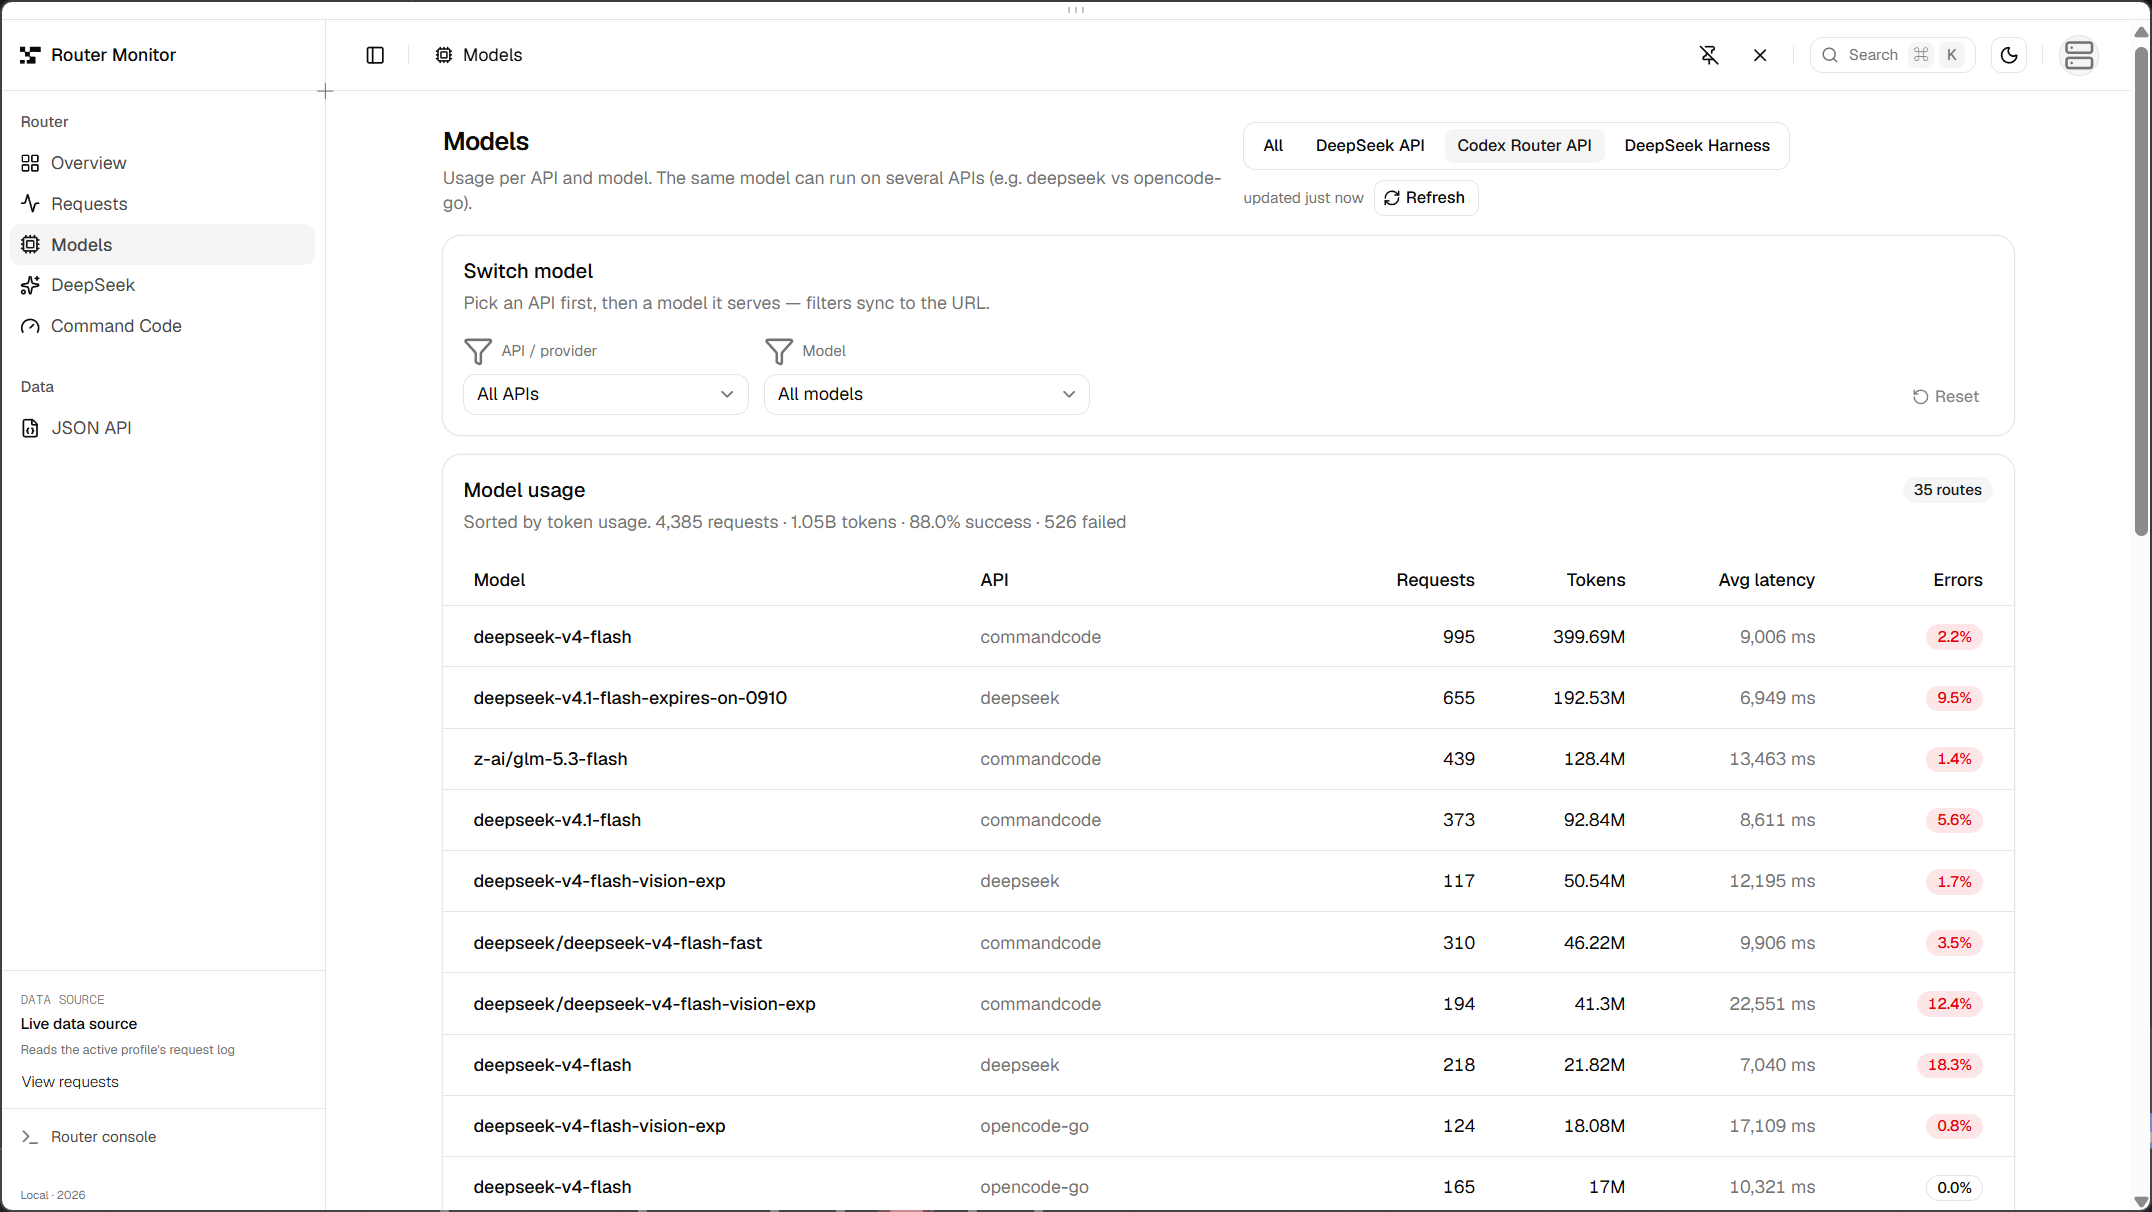
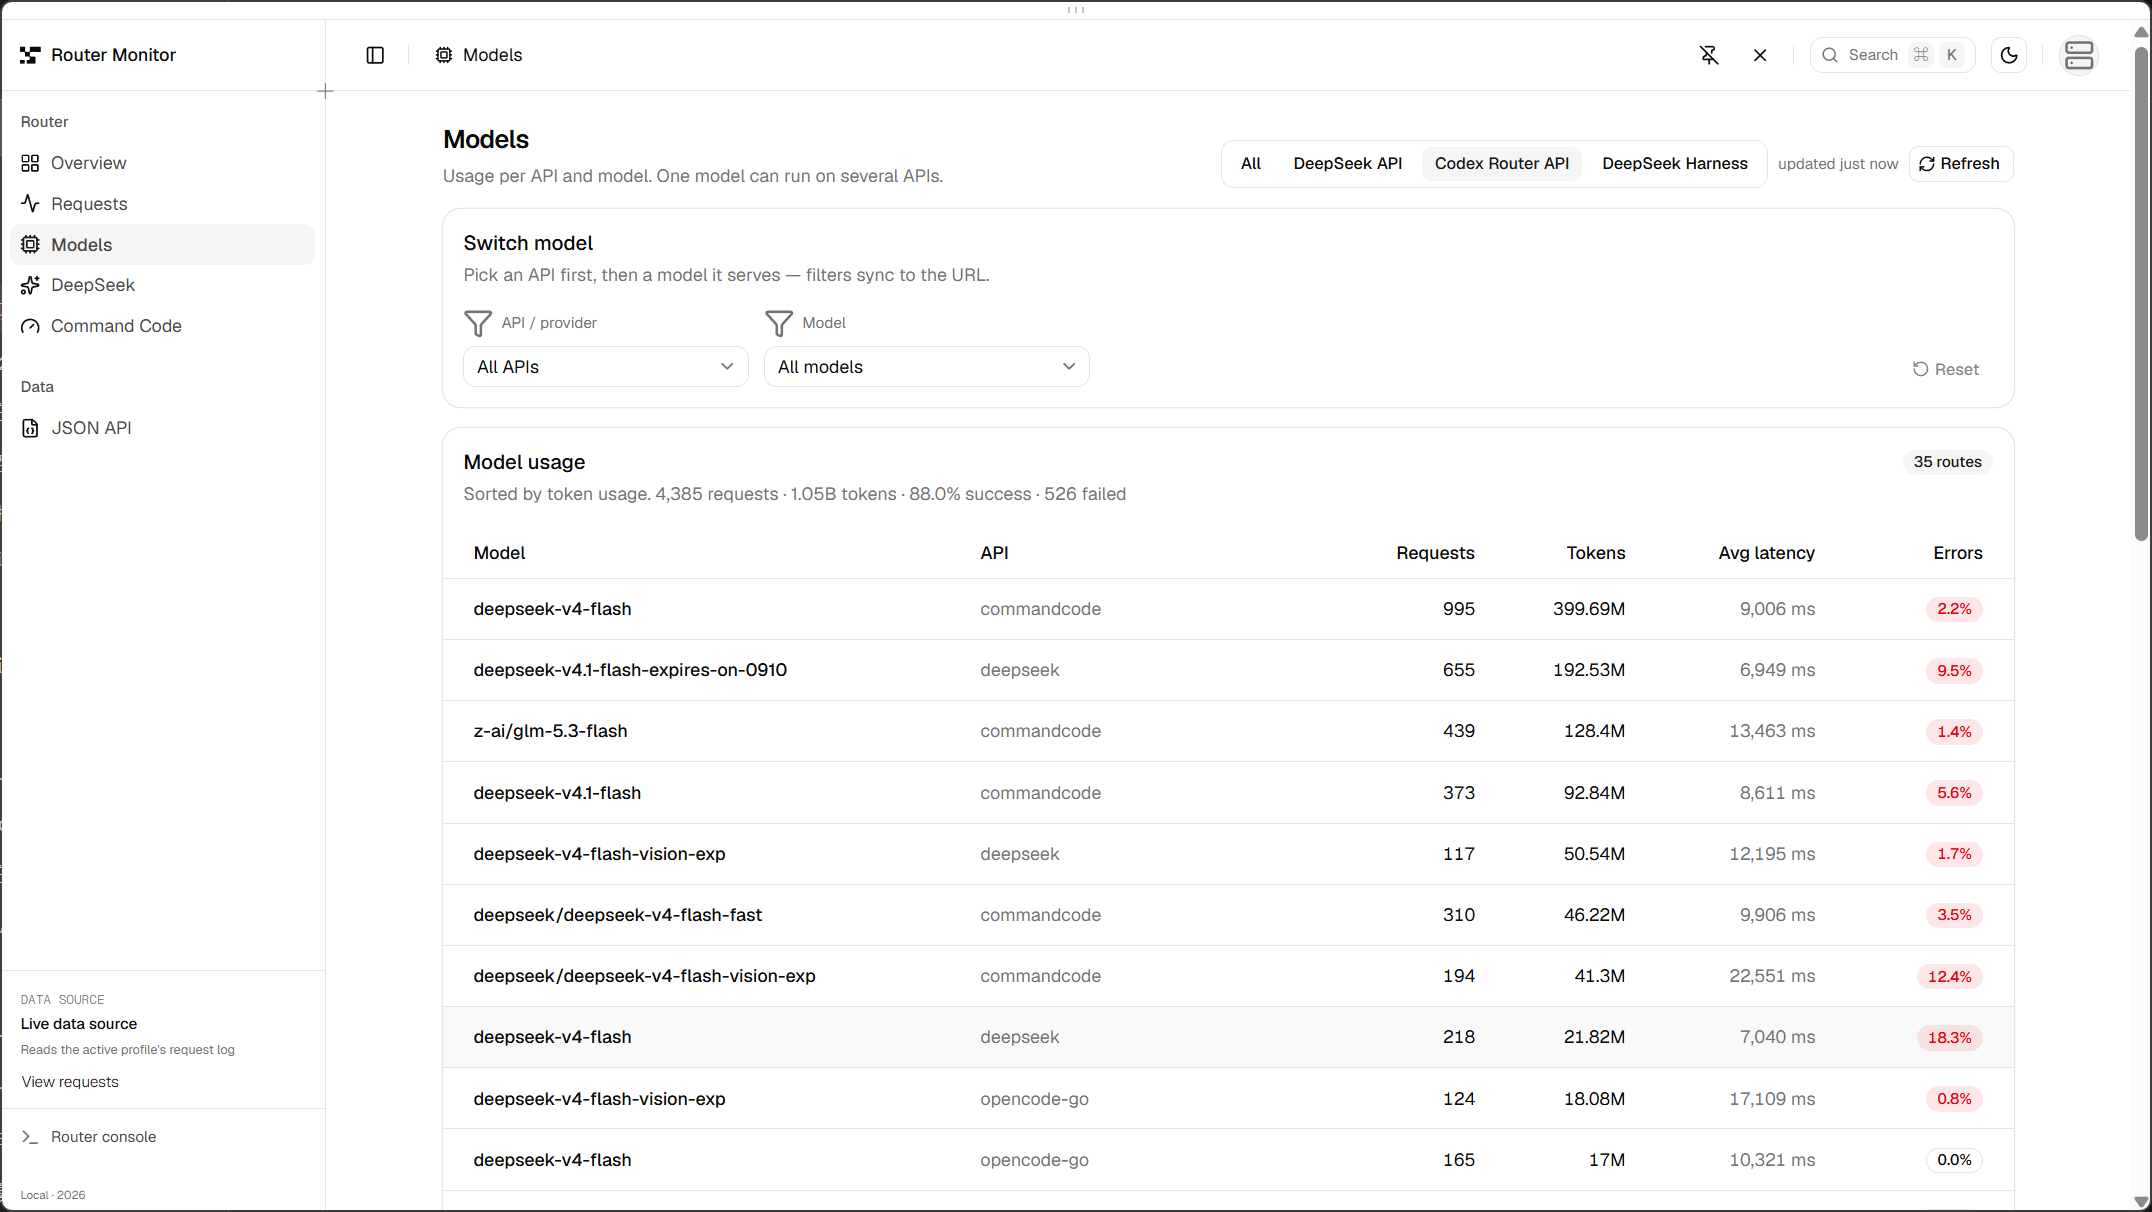
dashboard: keep the header controls on one line
The description I added for the All tab was long enough to push the Refresh button
onto a second row - measured: the controls need 810 px and the prose was taking 520,
so the row could not fit in the 1232 px available.

Two changes, both measured rather than eyeballed:

- every page description is shorter. Overview's All text went from 105 characters
  (520 px) to 44 (300 px), and the other three descriptions are trimmed by the same
  amount.
- the prose column is now min-w-0, so it yields width before the controls yield a row.

Result at 1688 px: the controls occupy one row on all three pages with 0 px of
overflow. Narrower windows degrade the way they should - the controls wrap as a unit
rather than overflowing the edge.

npm run test:e2e now asserts both, counting rows with a tolerance because controls of
different heights are centred on one row and a few pixels of top offset is not a wrap.
Confirmed the assertion is not vacuous: restoring the long description reproduces
2 rows and the check fails.

Gate re-run: exit 0, 47/47.

diff --git a/src/app/requests/page.tsx b/src/app/requests/page.tsx
@@ -60,12 +60,12 @@ export default async function RequestsPage({ searchParams }: RequestsPageProps) 
 	const sourceLabel = snapshot.sourceLabel;
 	const sourceDescription =
 		source === "all"
-			? "Every request any reader can see, counted once. Not the sum of the three tabs — they overlap."
+			? "Every request from every reader, counted once."
 			: source === "router"
-				? "Live request log from Codex Router API (127.0.0.1:4202)."
+				? "Live log from Codex Router API (127.0.0.1:4202)."
 				: source === "harness"
-					? "Live request log from DeepSeek Harness session logs (~/.dsh/sessions)."
-					: "Live request log from the native DeepSeek API (api.deepseek.com).";
+					? "Live log from the DeepSeek Harness session logs."
+					: "Live log from the native DeepSeek API.";
 	// The harness meters the native DeepSeek upstream in CNY; Command Code turns
 	// there are billed as credits, so only the priced part is shown.
 	// "all" reports no cost on purpose: DeepSeek's CNY list prices only DeepSeek
@@ -96,7 +96,8 @@ export default async function RequestsPage({ searchParams }: RequestsPageProps) 
 		<AppShell>
 			<div className="flex flex-col gap-4">
 				<header className="flex flex-col gap-3 sm:flex-row sm:items-end sm:justify-between">
-					<div className="flex flex-col gap-1">
+					{/* min-w-0 lets the prose give up width before the controls give up a row. */}
+					<div className="flex min-w-0 flex-col gap-1">
 						<h1 className="font-heading text-xl font-semibold tracking-tight">
 							Requests
 						</h1>

diff --git a/src/app/page.tsx b/src/app/page.tsx
@@ -48,18 +48,20 @@ export default async function Home({ searchParams }: HomeProps) {
 		<AppShell>
 			<div className="flex flex-col gap-4">
 				<header className="flex flex-col gap-3 sm:flex-row sm:items-end sm:justify-between">
-					<div className="flex flex-col gap-1">
+					{/* min-w-0 lets the prose give up width before the controls give up a row:
+					    the switchers have to stay on one line, the description can wrap. */}
+					<div className="flex min-w-0 flex-col gap-1">
 						<h1 className="font-heading text-xl font-semibold tracking-tight">
 							Overview
 						</h1>
 						<p className="text-sm text-muted-foreground">
 							{source === "all"
-								? "Every request any reader can see, counted once. Not the sum of the three tabs — they overlap."
+								? "Every request from every reader, counted once."
 								: source === "router"
-									? "Usage, latency, and token trends from Codex Router API."
+									? "Usage, latency and tokens from Codex Router API."
 									: source === "harness"
-										? "Usage and token trends for turns DeepSeek Harness sent upstream."
-										: "Usage, tokens, and cost trends from the native DeepSeek API."}
+										? "Usage and tokens for turns DeepSeek Harness sent upstream."
+										: "Usage, tokens and cost from the native DeepSeek API."}
 						</p>
 					</div>
 					<div className="flex flex-wrap items-center gap-2">

diff --git a/src/app/models/page.tsx b/src/app/models/page.tsx
@@ -67,13 +67,13 @@ export default async function ModelsPage({ searchParams }: ModelsPageProps) {
 		<AppShell>
 			<div className="flex flex-col gap-4">
 				<header className="flex flex-col gap-3 sm:flex-row sm:items-end sm:justify-between">
-					<div className="flex flex-col gap-1">
+					{/* min-w-0 lets the prose give up width before the controls give up a row. */}
+					<div className="flex min-w-0 flex-col gap-1">
 						<h1 className="font-heading text-xl font-semibold tracking-tight">
 							Models
 						</h1>
 						<p className="text-sm text-muted-foreground">
-							Usage per API and model. The same model can run on several APIs
-							(e.g. deepseek vs opencode-go).
+							Usage per API and model. One model can run on several APIs.
 						</p>
 					</div>
 					<div className="flex flex-wrap items-center gap-2">

diff --git a/docs/tray-evidence.md b/docs/tray-evidence.md
@@ -6,7 +6,7 @@ Generated by scripts/verify-tray.ps1. Regenerate with:
 
 | Run | Commit | Reopen | Route change | Hidden CPU / 0.5s | Hidden samples | Viewport | DPR | Result |
 | --- | --- | --- | --- | --- | --- | --- | --- | --- |
-| 2026-09-12 01:53 | 9cbc328 | 34 ms | 27 ms | 0 ms | 30 | 1689x936 | 1.2750000953674316 | pass |
+| 2026-09-12 02:07 | b0f7ce5 | 23 ms | 48 ms | 0 ms | 30 | 1689x936 | 1.2750000953674316 | pass |
 
 Thresholds: reopen <= 200 ms, route change <= 500 ms, hidden CPU median <= 20 ms per 0.5 s sample.
 Raw report: logs/verify/report.txt (ignored by git).
